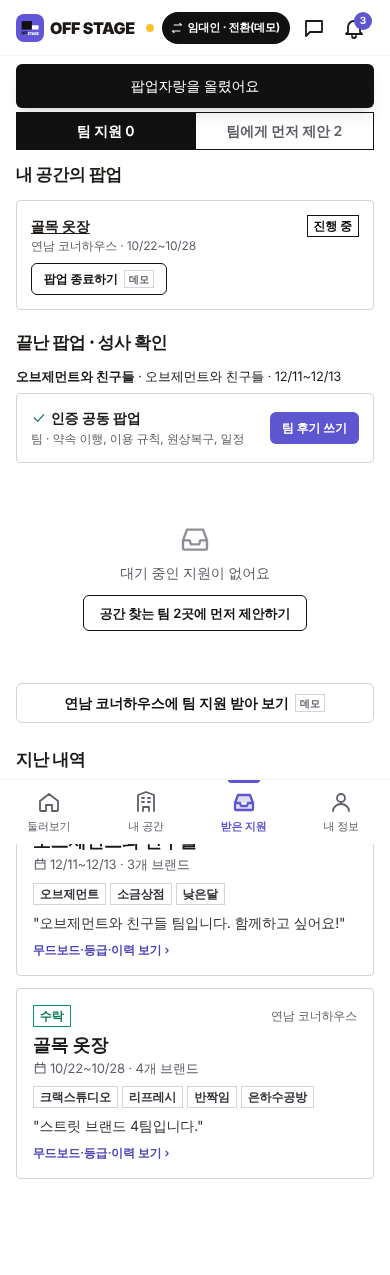
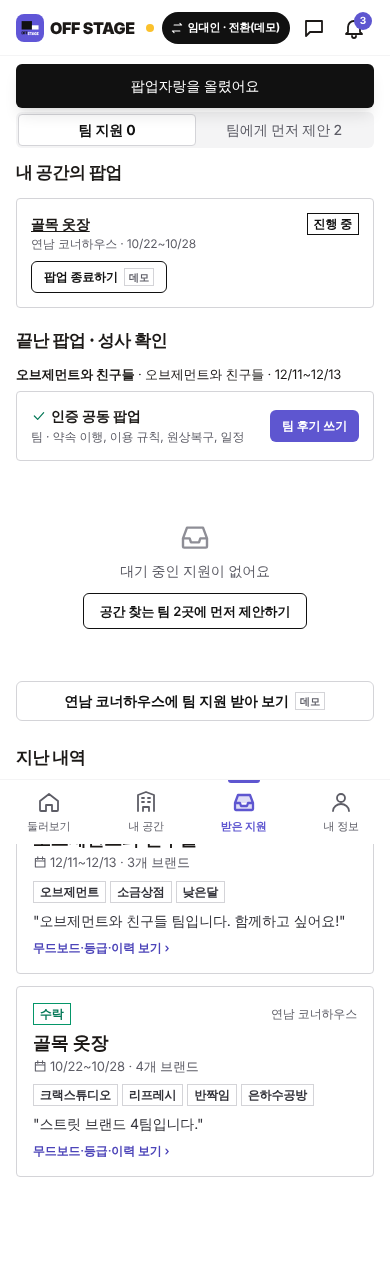
선택 칩을 검은 채움 대신 테두리로, 두 칸 선택 버튼을 회색 트랙형으로
Claude-Session: https://claude.ai/code/session_0127PgxmrWax7HLBrSWBod79

diff --git a/src/components/ui.tsx b/src/components/ui.tsx
@@ -107,7 +107,7 @@ export function Card({ children, className, onClick }: { children: ReactNode; cl
 
 export function Chip({ children, active, onClick, className }: { children: ReactNode; active?: boolean; onClick?: () => void; className?: string }) {
   return (
-    <button type="button" onClick={onClick} className={cx('px-3 h-8 rounded text-xs font-medium border whitespace-nowrap transition-colors', active ? 'bg-ink-900 text-white border-ink-900' : 'bg-white text-ink-700 border-ink-300', className)}>
+    <button type="button" onClick={onClick} className={cx('px-3 h-8 rounded text-xs border whitespace-nowrap transition-colors', active ? 'bg-white text-ink-900 border-ink-900 font-bold' : 'bg-white text-ink-700 border-ink-300 font-medium', className)}>
       {children}
     </button>
   );
@@ -284,9 +284,9 @@ export function Tabs<T extends string>({ items, value, onChange, className }: { 
 
 export function Segmented<T extends string>({ items, value, onChange }: { items: { key: T; label: ReactNode }[]; value: T; onChange: (k: T) => void }) {
   return (
-    <div className="flex border border-ink-900">
+    <div className="flex bg-ink-100 p-0.5 rounded-md">
       {items.map((it) => (
-        <button key={it.key} onClick={() => onChange(it.key)} className={cx('flex-1 h-9 text-sm font-semibold border-l border-ink-900 first:border-l-0', value === it.key ? 'bg-ink-900 text-white' : 'bg-white text-ink-500')}>
+        <button key={it.key} onClick={() => onChange(it.key)} className={cx('flex-1 h-8 text-sm rounded', value === it.key ? 'bg-white text-ink-900 font-bold border border-ink-300' : 'text-ink-500 font-medium')}>
           {it.label}
         </button>
       ))}
